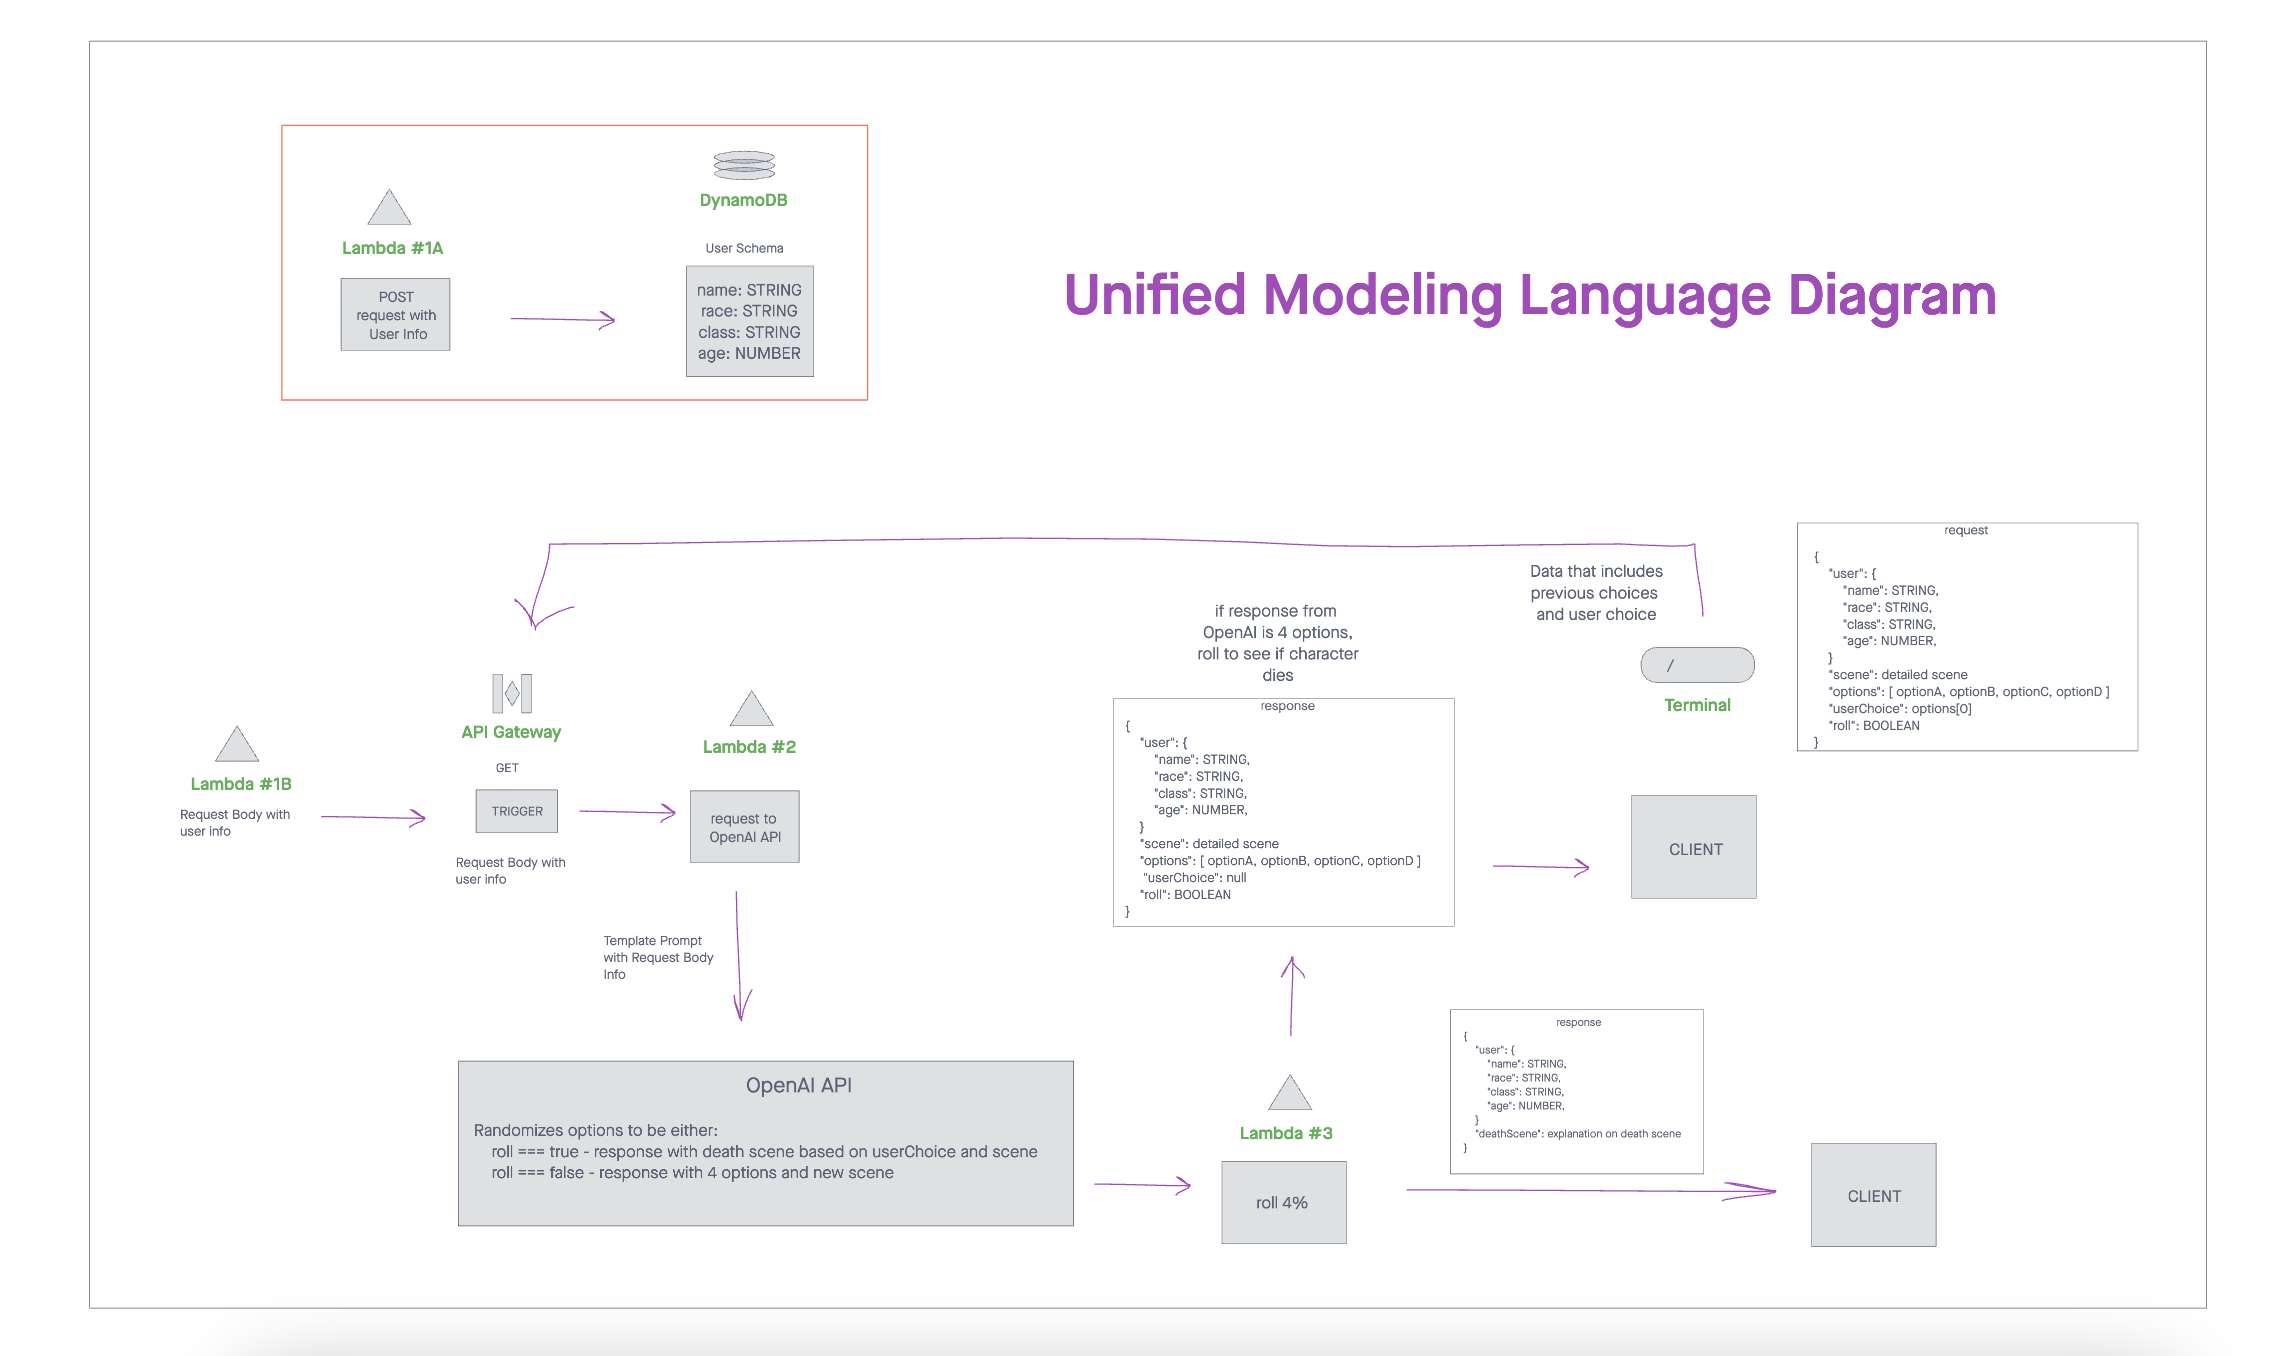
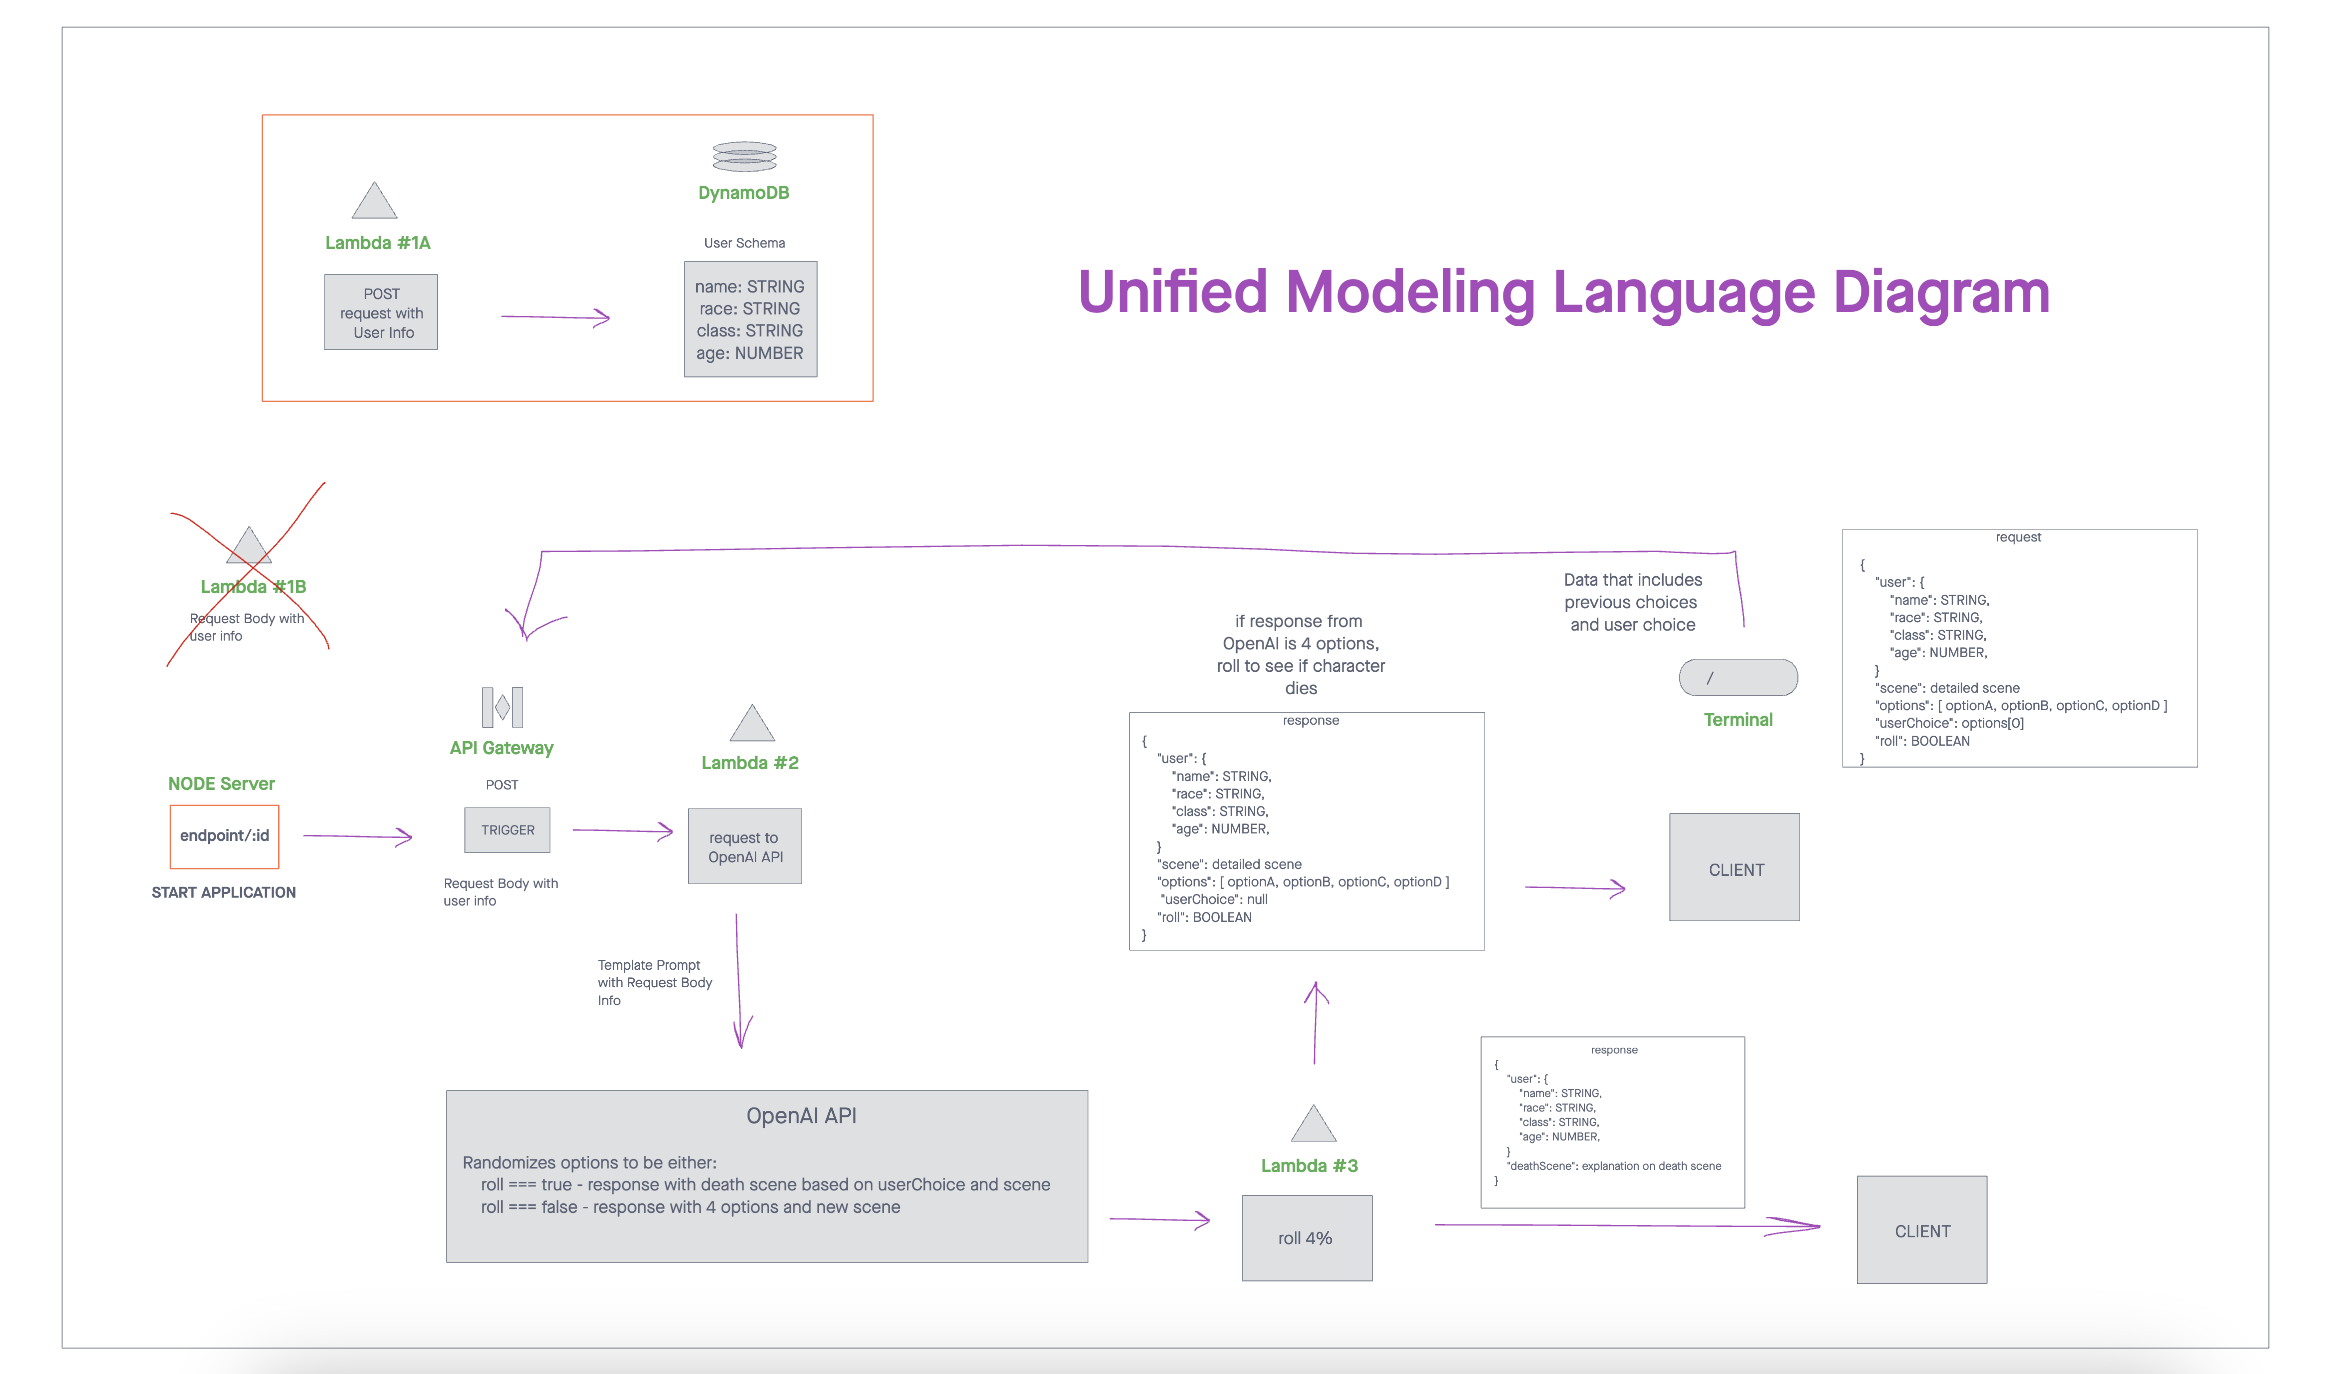
updated installation instruction and UML image

diff --git a/README.md b/README.md
@@ -22,23 +22,33 @@
 ## Installation
 
 * Clone down the respective repos located on our organization page (<https://github.com/GUI-Goblins>)
-* Create API Gateway on AWS with the following criteria:
-> 1. POST to an {endpoint}- to create user with following schema:
+* Create a Schema on AWS DynamoDB with the following criteria:
 > ```javascript
 > {
->   "id": NUMBER, // Update id on URL on server.js of simple-backend-api repo
+>   "id": NUMBER,
 > 	"name": STRING,
 >	"race": STRING,
 >	"class": STRING,
 >	"age": NUMBER,
 >}
 > ```
-> 2. POST to an {endpoint/:id} using the id create with the user. Update endpoint on server.js of simple-backend-api repo with endpoint created above.
+* Create API Gateway on AWS with the following criteria:
+> 1. POST to an {endpoint} - to create user.
+> 2. POST to an {endpoint/:id} - use the the id when user is created.
 * Create 4 separate lambda functions below using repos below:
 > 1. Create User (<https://github.com/GUI-Goblins/lambda-create-user>)
+> ```javascript
+> {
+>   "id": NUMBER,
+> 	"name": STRING,
+>	"race": STRING,
+>	"class": STRING,
+>	"age": NUMBER,
+>}
+> ```
 > 2. Trigger OpenAI Request (<https://github.com/GUI-Goblins/lambda-openai-request>)
+>> This repo is NOT currently being utilized as simple-backend-api repo will directly trigger API Gateway which will start the application loop.
 > 3. Send OpenAI Request (<https://github.com/GUI-Goblins/lambda-openai-prompt>)
->
 >>   Create env files with following info:
 >>>       OPEN_AI_URL - {CHAT_COMPLETIONS_OPENAI_URL}
 >>>       OPENAI_API_KEY - {USE_YOUR_OWN_OPENAI_API_KEY}
